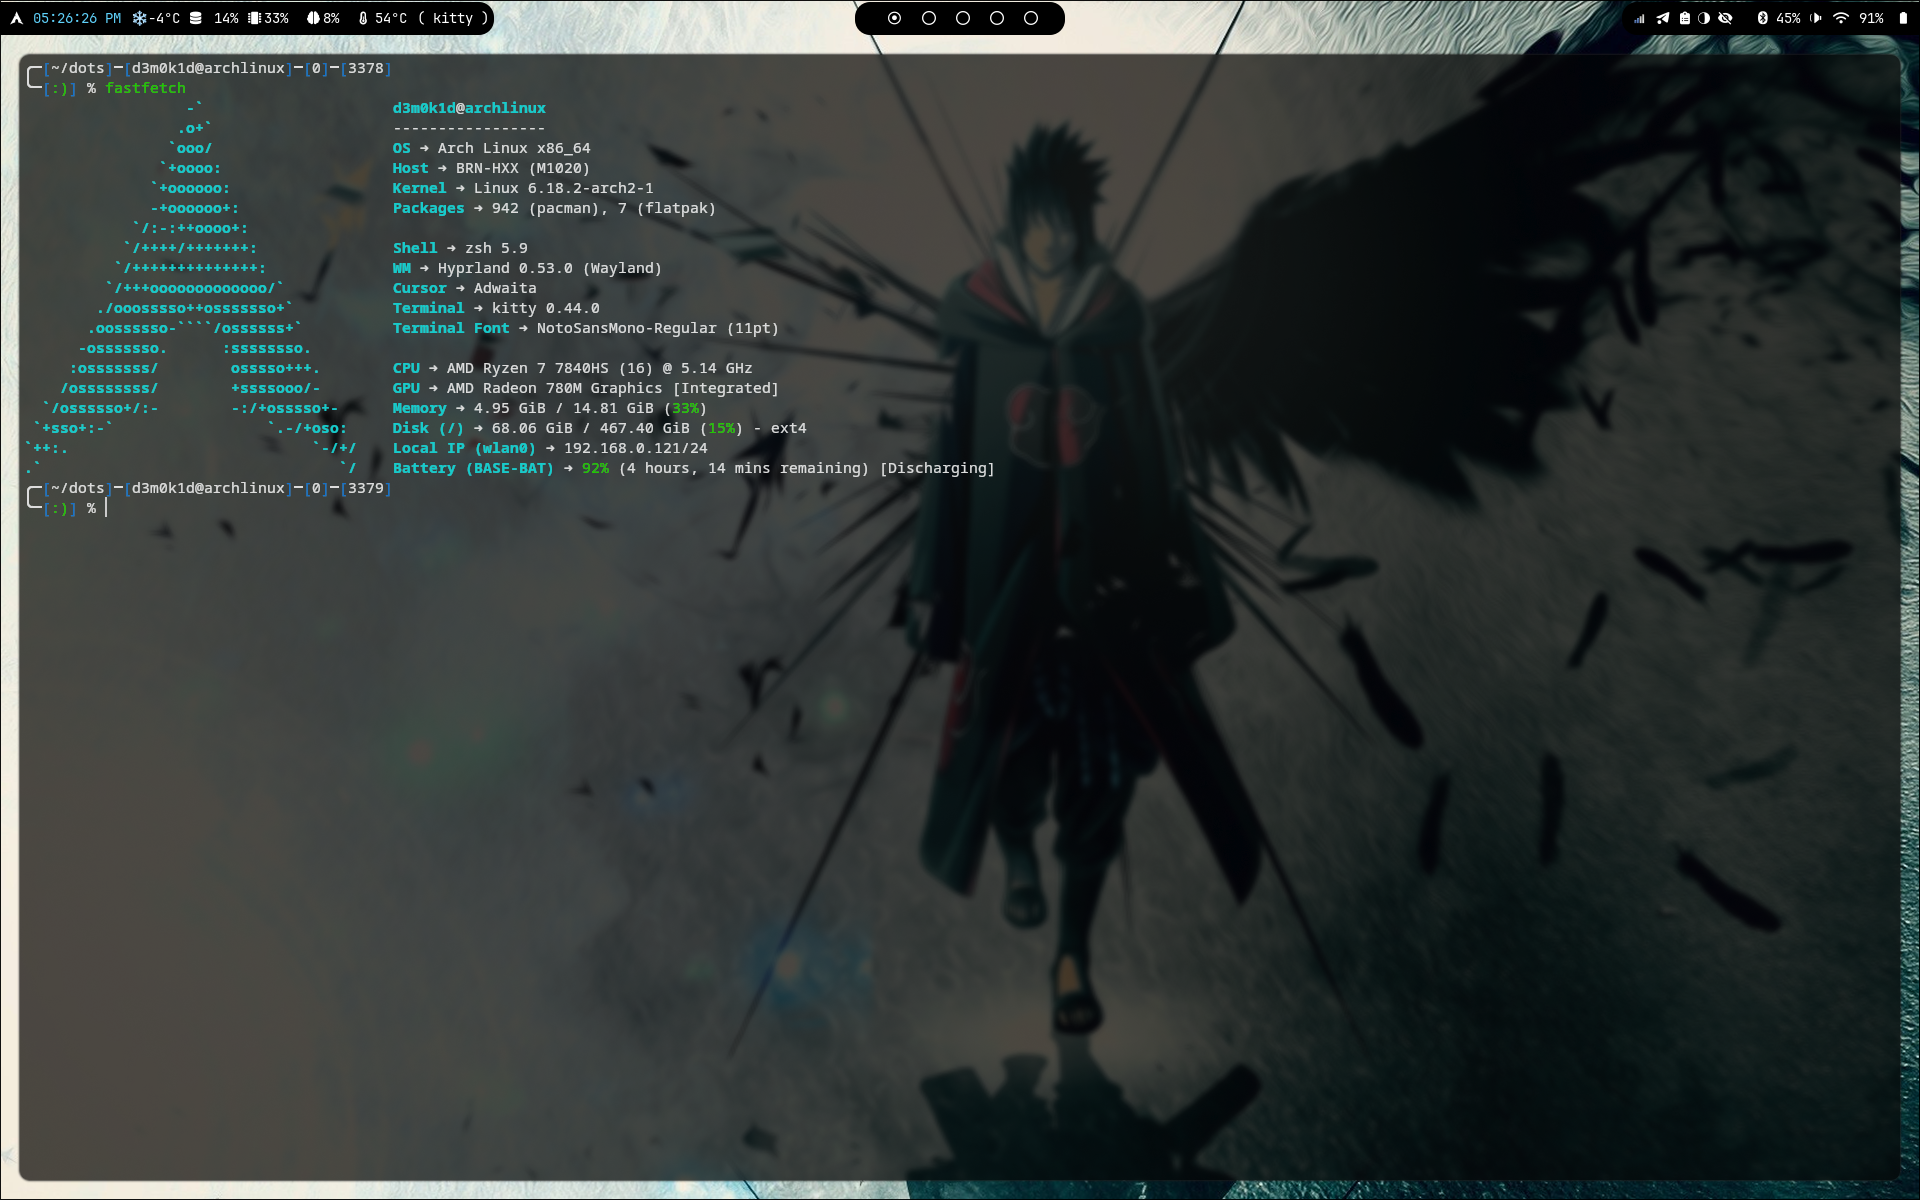
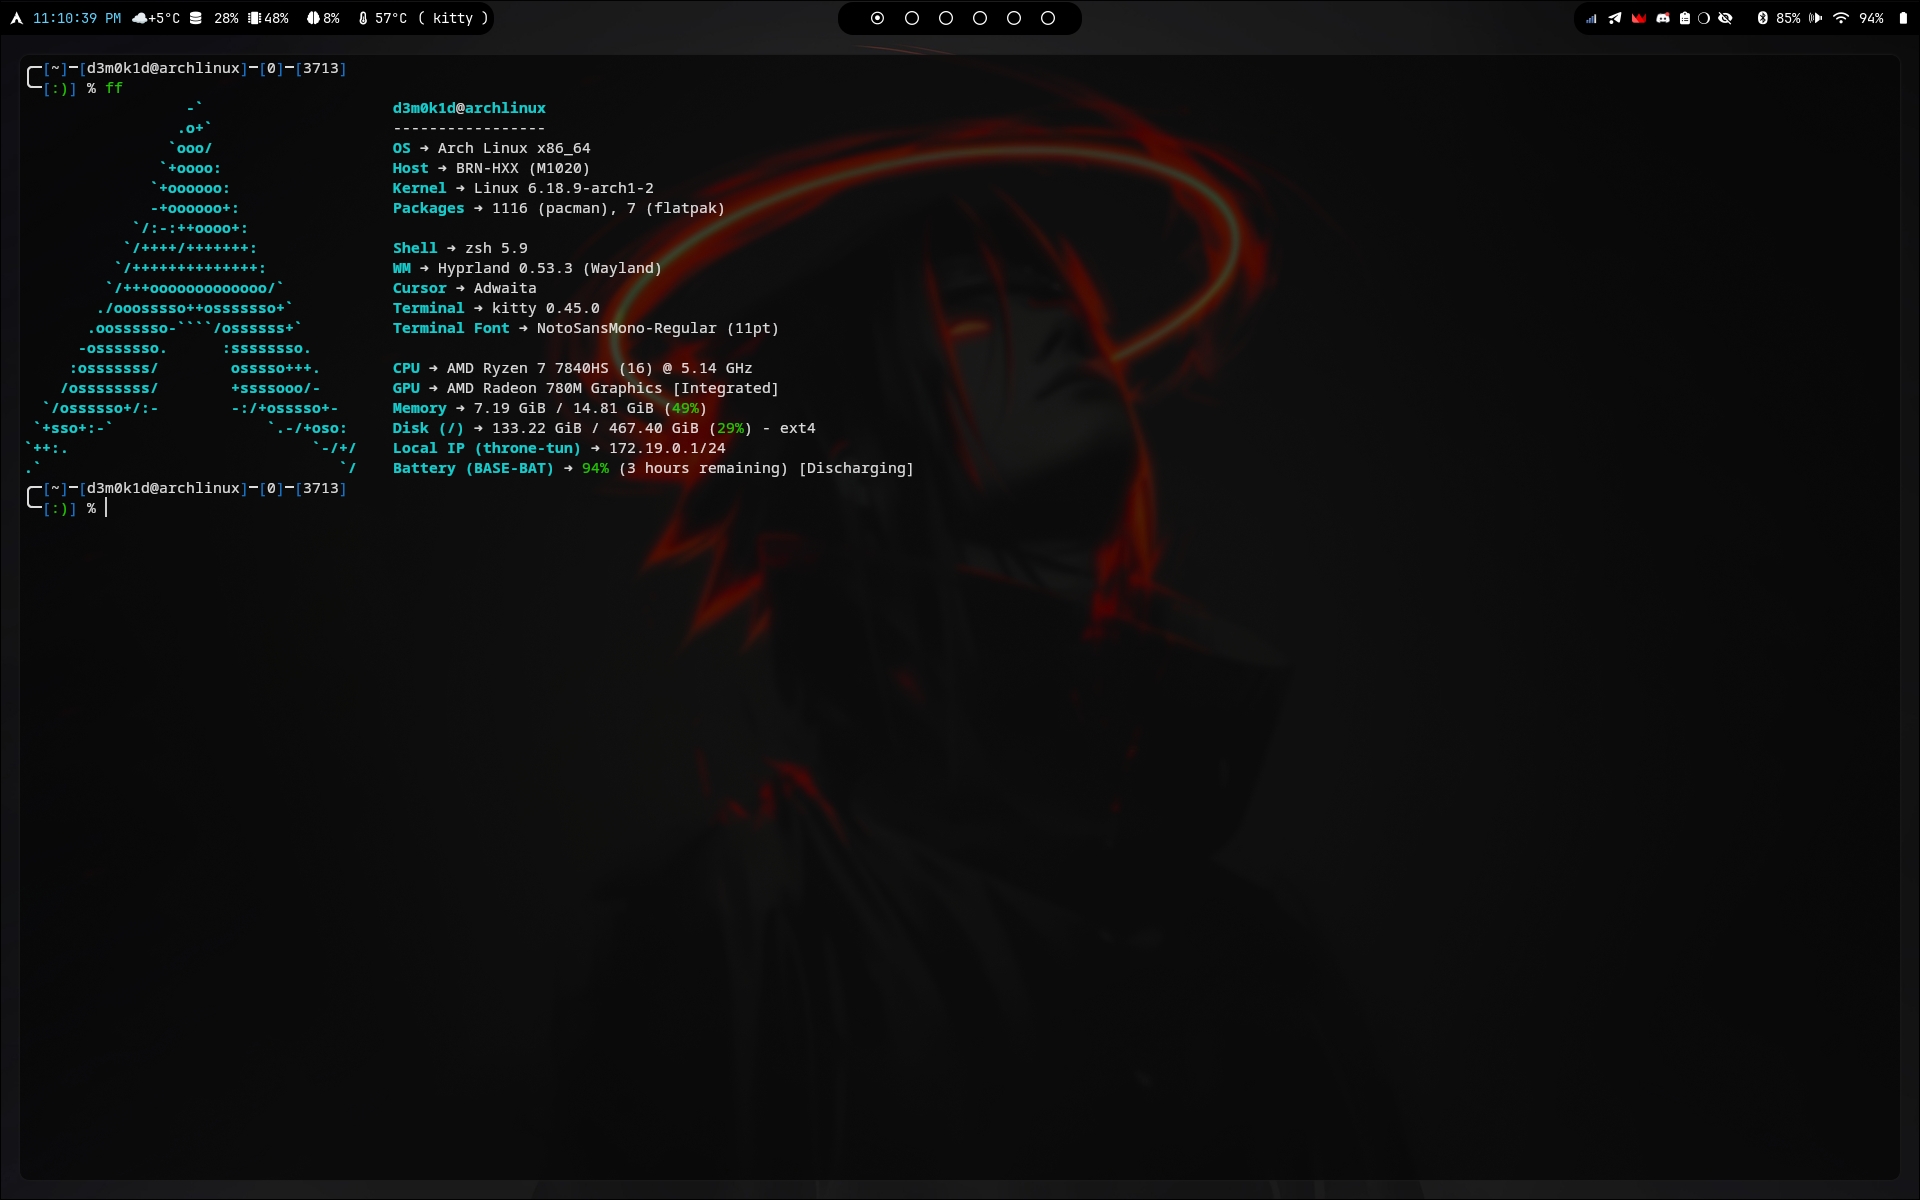
feat: update screenshots, update Astronvim and readme

diff --git a/README.md b/README.md
@@ -1,21 +1,22 @@
 # dots
 
-My personal simple setup for Hyprland on my Arch Linux
+My personal simple setup for [Hyprland](https://github.com/hyprwm/Hyprland) on my Arch Linux
 
 ## Overview
 ![Waybar](./docs/sc1.png)
 ![Terminal + Fastfetch](./docs/sc2.png)
 ![NeoVim](./docs/sc3.png)
 ## Core components
-- Hyprland
-- Waybar
-- Wofi
-- Hyprlock
-- NeoVim + AstroNvim
-- Kitty + OhMyZsh
-- Hyprshot
-- Fastfetch
-- Lazygit
+- [Hyprland](https://github.com/hyprwm/Hyprland)
+- [Waybar](https://github.com/Alexays/Waybar)
+- [Wofi](https://github.com/SimplyCEO/wofi)
+- [Hyprlock](https://github.com/hyprwm/hyprlock)
+- [NeoVim](https://github.com/neovim/neovim) + [AstroNvim](https://github.com/AstroNvim/AstroNvim)
+- [Kitty](https://github.com/kovidgoyal/kitty) + [OhMyZsh](https://github.com/ohmyzsh/ohmyzsh)
+- [Hyprshot](https://github.com/another-brother/hyprshot)
+- [Fastfetch](https://github.com/fastfetch-cli/fastfetch)
+- [Lazygit](https://github.com/jesseduffield/lazygit)
+- [Eza](https://github.com/eza-community/eza)
 ## Installation
 I write simple makefile, but i dont test on new system. If you encounter any issues while using it, please create an issue on GitHub or contact me via email.
 ```shell
@@ -24,5 +25,17 @@ cd dots
 sudo make backup
 sudo make install
 ```
+## Aliases
+| Alias | Command |
+| ----- | ------- |
+| `ff`  | `fastfetch` |
+| `ls`  | `eza` |
+| `l`  | `lazygit` |
+| `upd` | `sudo pacman -Syu` |
+| `sn`  | `shutdown now` |
+| `re`  | `reboot` |
+| `g`   | `git push origin master` |
+| `n`   | `nvim` |
+
 ## License
 This project is licensed under the MIT License.
